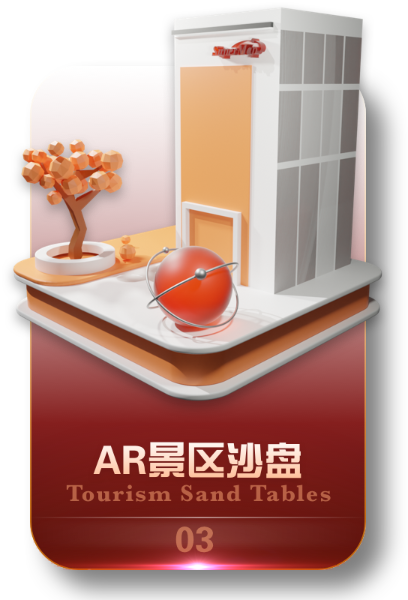
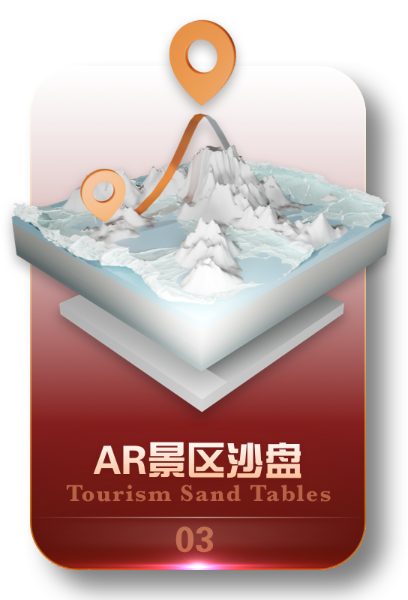
修改首页景区沙盘图片和音乐静止图片
作者：yangsl
本领域专家：xiezy
相应测试案例：不需要添加
代码审查时间：0.1小时

diff --git a/applets/exhibition/src/assets/home/index.ts b/applets/exhibition/src/assets/home/index.ts
@@ -8,6 +8,8 @@ const ar_infra_selected = require('./ar_infra_selected.png')
 const ar_infra_unselected = require('./ar_infra_unselected.png')
 const ar_sandbox_selected = require('./ar_sandbox_selected.png')
 const ar_sandbox_unselected = require('./ar_sandbox_unselected.png')
+const ar_building_selected = require('./ar_building_selected.png')
+const ar_building_unselected = require('./ar_building_unselected.png')
 const btn_start_selected = require('./btn_start_selected.png')
 const btn_start_unselected = require('./btn_start_unselected.png')
 const icon_other_left_arrow_unselected = require('./icon_other_left_arrow_unselected.png')
@@ -31,6 +33,8 @@ export {
   ar_infra_unselected,
   ar_sandbox_selected,
   ar_sandbox_unselected,
+  ar_building_selected,
+  ar_building_unselected,
   btn_start_selected,
   btn_start_unselected,
   icon_other_left_arrow_unselected,
